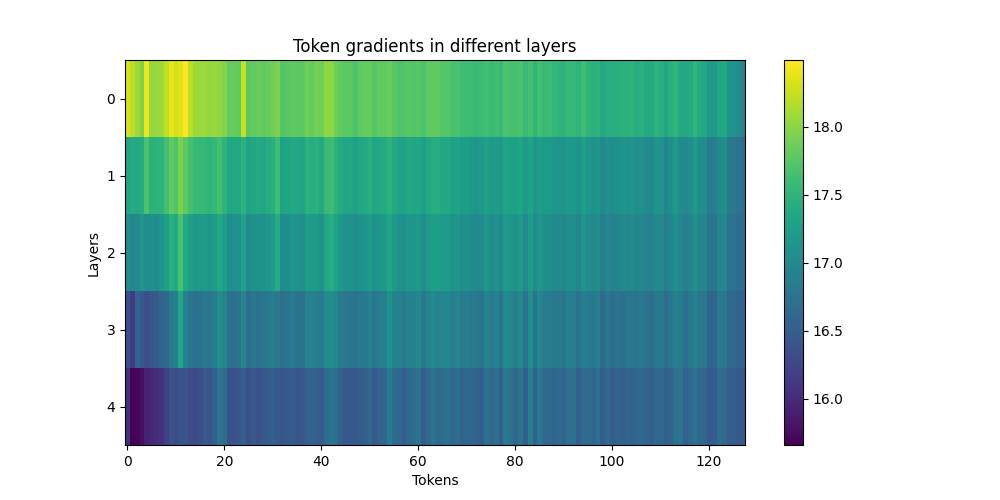
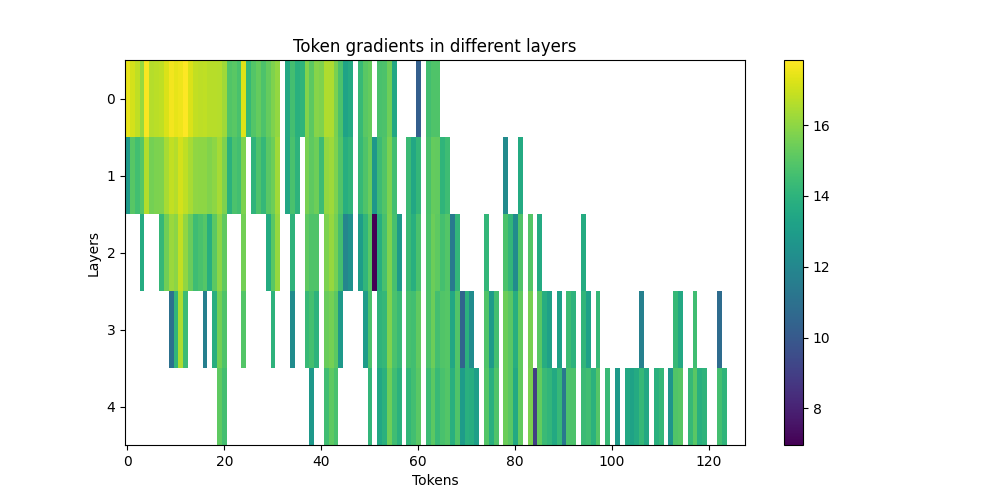
gradient-activation norm

diff --git a/main.py b/main.py
@@ -189,25 +189,16 @@ class gradients_norm:
     def normwmean(self):
         
         assert self.grads["layer 0"].shape == (128,)
+        epsilon = 1e-5
+        gradlistmean = np.array([
+            np.log(np.array(self.grads["layer 0"]) - np.mean(np.array(self.grads["layer 0"]), axis = 0) + epsilon),
+            np.log(np.array(self.grads["layer 1"]) - np.mean(np.array(self.grads["layer 1"]), axis = 0) + epsilon),
+            np.log(np.array(self.grads["layer 2"]) - np.mean(np.array(self.grads["layer 2"]), axis = 0) + epsilon),
+            np.log(np.array(self.grads["layer 3"]) - np.mean(np.array(self.grads["layer 3"]), axis = 0) + epsilon),
+            np.log(np.array(self.grads["layer 4"]) - np.mean(np.array(self.grads["layer 4"]), axis = 0) + epsilon),
+        ])  
         
-        actlistmean = np.array([
-            np.log(self.grads["layer 0"] - np.mean(self.grads["layer 0"], axis = 0)), 
-            np.log(self.grads["layer 1"] - np.mean(self.grads["layer 1"], axis = 0)), 
-            np.log(self.grads["layer 2"] - np.mean(self.grads["layer 2"], axis = 0)), 
-            np.log(self.grads["layer 3"] - np.mean(self.grads["layer 3"], axis = 0)), 
-            np.log(self.grads["layer 4"] - np.mean(self.grads["layer 4"], axis = 0)), 
-            # mean_acts["last layer"]
-            ])
-
-        data_normwmean = np.array([
-            np.log(self.grads["layer 0"]),
-            np.log(self.grads["layer 1"]),
-            np.log(self.grads["layer 2"]),
-            np.log(self.grads["layer 3"]),
-            np.log(self.grads["layer 4"]),
-            ])
-
-        plotting(data=data_normwmean, name = "figures/grad_layer_seq_normwmean.png")
+        plotting(data=gradlistmean, name = "figures/grad_layer_seq_normwmean.png")
 
 
 if __name__ == "__main__":
